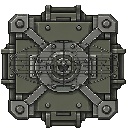
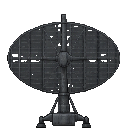
Animate side-view radar with sixteen drawn azimuth frames

diff --git a/HullPlacement.js b/HullPlacement.js
@@ -18,10 +18,11 @@ export async function createHullPlacement(app, hull) {
   await Promise.all(allParts.filter(part => part.url).map(async (part) => {
     const loaded = await Assets.load(part.url);
     loaded.source.scaleMode = 'nearest';
-    if (part.antennaUrl) {
-      const antenna = await Assets.load(part.antennaUrl);
-      antenna.source.scaleMode = 'nearest';
-      textures.set(`${part.id}-antenna`, antenna);
+    if (part.animationUrl) {
+      const sheet = await Assets.load(part.animationUrl);
+      sheet.source.scaleMode = 'nearest';
+      textures.set(`${part.id}-frames`, Array.from({ length: part.frameCount }, (_, i) =>
+        new Texture({ source: sheet.source, frame: new Rectangle(i * 128, 0, 128, 128) })));
     }
     textures.set(part.id, part.textureFrame
       ? new Texture({ source: loaded.source, frame: new Rectangle(part.textureFrame.x, part.textureFrame.y, part.textureFrame.width, part.textureFrame.height) })
@@ -62,15 +63,9 @@ export async function createHullPlacement(app, hull) {
   let deleting = false;
   let onAlert = () => {};
   function applyMask(sprite, part) {
-    sprite.getChildByLabel('radar-antenna')?.destroy();
-    if (part.category === 'SENSOR') {
-      const antenna = new Sprite({ texture: textures.get(`${part.id}-antenna`) });
-      antenna.label = 'radar-antenna';
-      antenna.scanDegreesPerSecond = part.scanDegreesPerSecond;
-      antenna.anchor.set(0.5);
-      antenna.width = 112; antenna.height = 48;
-      sprite.addChild(antenna);
-    }
+    sprite.radarFrames = part.category === 'SENSOR' ? textures.get(`${part.id}-frames`) : null;
+    sprite.radarTime = 0;
+    sprite.radarFps = part.framesPerSecond ?? 0;
     if (sprite.mask) { const old = sprite.mask; sprite.mask = null; old.destroy(); }
     if (part.category === 'ARMOR' && part.id.endsWith('half')) {
       const mask = new Graphics().poly([-32, -32, -32, 32, 32, 32]).fill(0xffffff);
@@ -211,8 +206,11 @@ export async function createHullPlacement(app, hull) {
   app.canvas.addEventListener('pointerdown', place);
   const animateRadar = ticker => {
     for (const sprite of [preview, ...placed.filter(b => findPart(b.partId).category === 'SENSOR').map(b => b.sprite)]) {
-      const antenna = sprite.getChildByLabel('radar-antenna');
-      if (antenna) antenna.angle = (antenna.angle + antenna.scanDegreesPerSecond * Math.min(ticker.deltaMS, 100) / 1000) % 360;
+      if (sprite.radarFrames) {
+        sprite.radarTime += Math.min(ticker.deltaMS, 100) / 1000;
+        const frame = Math.floor(sprite.radarTime * sprite.radarFps) % sprite.radarFrames.length;
+        sprite.texture = sprite.radarFrames[frame];
+      }
     }
   };
   app.ticker.add(animateRadar);

diff --git a/SensorParts.js b/SensorParts.js
@@ -1,5 +1,5 @@
 const asset = name => `${import.meta.env.BASE_URL}assets/sensor/${name}.png`;
 export const sensorParts = [
   { id: 'sensor-P-13', label: 'P-13', category: 'SENSOR', width: 2, height: 2, mass: 4, rotationStep: 90,
-    url: asset('P-13-base'), iconUrl: asset('P-13'), antennaUrl: asset('P-13-antenna'), scanDegreesPerSecond: 60 },
+    url: asset('P-13'), animationUrl: asset('P-13-frames'), frameCount: 16, framesPerSecond: 8 },
 ];

diff --git a/doc/design.md b/doc/design.md
@@ -364,9 +364,9 @@
 ### SENSOR P-13
 
 - P-13レーダーをSENSORタブに追加。2x2マス、128×128px。P-19「ドゥナーイ」風の楕円形・網目状アンテナを灰色金属のドット絵で表現する。
-- GIFの代わりに固定台座PNGと透過網目アンテナPNGを組み合わせる。Pixiのtickerでアンテナだけ毎秒60度回転し、6秒で一周。速度は暫定の見た目設定。
-- 台座は128×128px、アンテナは112×48pxで回転中も2x2範囲内に収まる。タブの静止アイコンは128×128pxの合成PNG。nearest表示。
-- 半透明プレビュー・配置済み・LOAD後のパーツで回転する。別パーツ選択時はプレビューのアンテナを除去し、destroy時はtickerを解除する。
+- 横から見たレーダーの16方向（22.5度刻み）を描いたスプライトシートでアニメーションする。画像の2D回転を使わず、tickerで1秒8コマを順番に切り替え、2秒で一周する。速度は暫定。
+- 各コマ128×128px、シートは2048×128pxの透過PNG。台座は各コマの下端で接地し、楕円網目アンテナの正面・斜め・側面・背面を切り替える。タブの静止アイコンは先頭コマ。nearest表示。
+- 半透明プレビュー・配置済み・LOAD後のパーツで回転する。別パーツ選択時はプレビューのアニメーション情報を解除し、destroy時はtickerを解除する。
 - P-13は他ブロックの文字通り真上に隣接配置する。重ね配置は禁止。台座下辺128px全体を他ブロックの水平な上辺に接地させる。1個の2マス幅ブロックだけでなく、隙間なく並んだ複数ブロックの上辺も支持として認める。上側の領域では台座下辺を接地位置へスナップし、配置・SAVE・LOADで検証する。
 - Rは台座の設計角度を90度回転、アンテナの自動回転とは独立。持ち直し、DEL、SAVE/LOADに対応。保存はパーツID・位置・設計角度のみで回転位相は保存しない。
 - 仮MASS4、人口消費40。索敵、レーダー誘導との連携、電力消費は未決定・未実装。アンテナ回転は表示アニメーションで、人口不足で停止しない。

diff --git a/README.md b/README.md
@@ -80,4 +80,4 @@ MISSILEタブのR-14 Yuliya（1x2）はHULL 1x2に完全一致、またはHULL 2
 
 MISSILEにKH-121 tulipan（縦4×横2、2x2 HULL 2個に完全一致）とR-2 oduvanchiki（1x1、矩形HULL内の1マス）を追加。GENERATORの下にSENSORタブを用意しました。
 
-SENSORタブのP-13はブロックの真上に隣接配置し、台座の下辺全体を接地させます。重ね配置は不可です。128×128pxの台座上で楕円の網目アンテナが回転します。GIFではなくPixiスプライトでアニメーションします。索敵は未実装です。
+SENSORタブのP-13はブロックの真上に隣接配置し、台座の下辺全体を接地させます。重ね配置は不可です。横から見た128×128pxのレーダーを16コマ切り替え、楕円の網目アンテナが旋回するアニメーションを表示します。画像自体の回転は使いません。索敵は未実装です。
